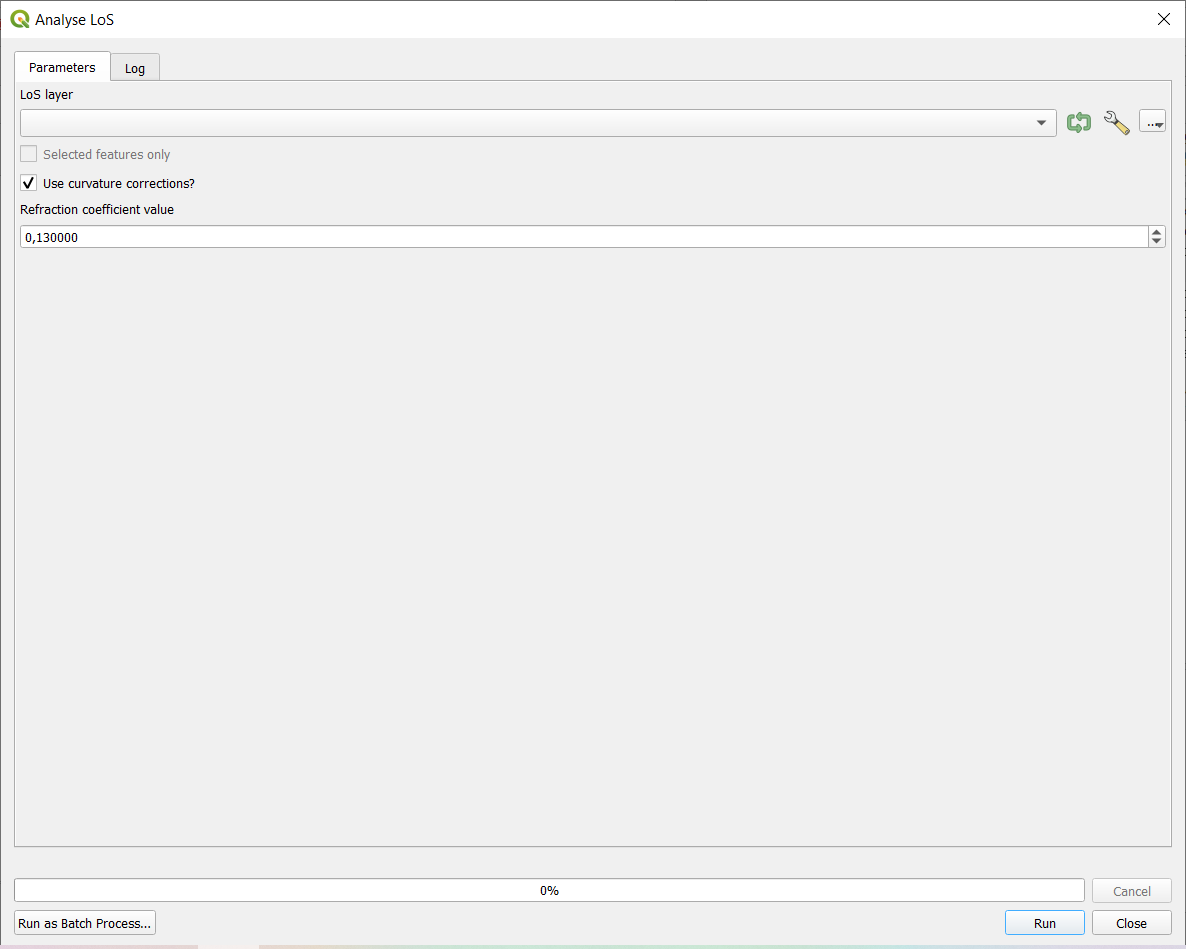
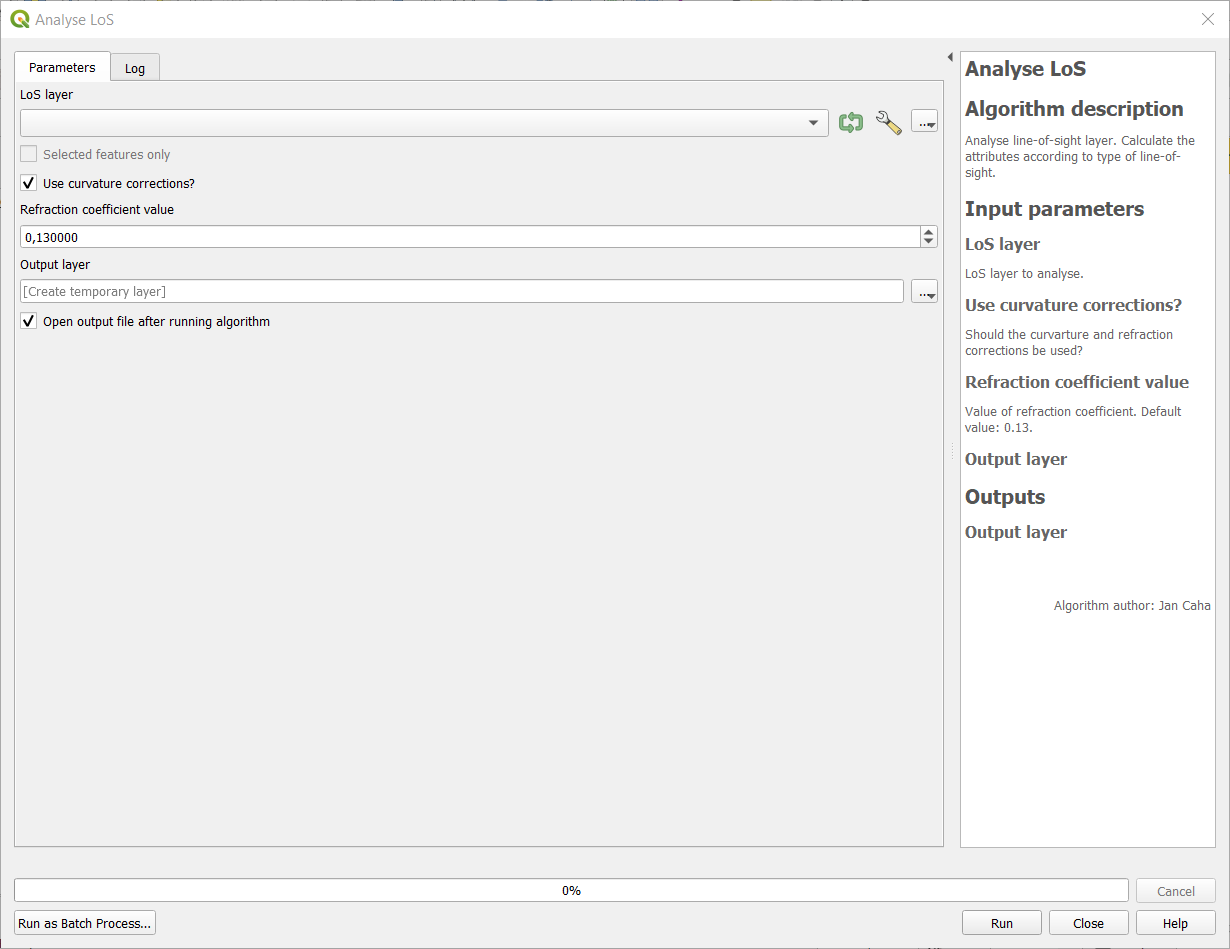
update tools/LoS Analysis/tool_analyse_los.md with new information

diff --git a/website/pages/tools/LoS Analysis/tool_analyse_los.md b/website/pages/tools/LoS Analysis/tool_analyse_los.md
@@ -9,10 +9,13 @@ Analyse line-of-sight layer. Calculate the attributes according to type of line-
 | LoS layer | `LoSLayer` | [vector: line] | LoS layer to analyse. |
 | Use curvature corrections? | `CurvatureCorrections` | [boolean]<br/><br/>Default: `True` | Should the curvarture and refraction corrections be used? |
 | Refraction coefficient value | `RefractionCoefficient` | [number] <br/><br/> Default: <br/> `0.13` | Value of refraction coefficient. |
+| Output layer | `OutputLayer` | [vector: line] | Output layer containing LoS with new attributes. |
 
 ## Outputs
 
-None. Adds column to the LoS layer based on LoS type.
+| Label | Name | Type | Description |
+| --- | --- | --- | --- |
+| Output layer | `OutputLayer` | [vector: line] | Output layer containing LoS with new attributes. |
 
 ### LoS local
 
